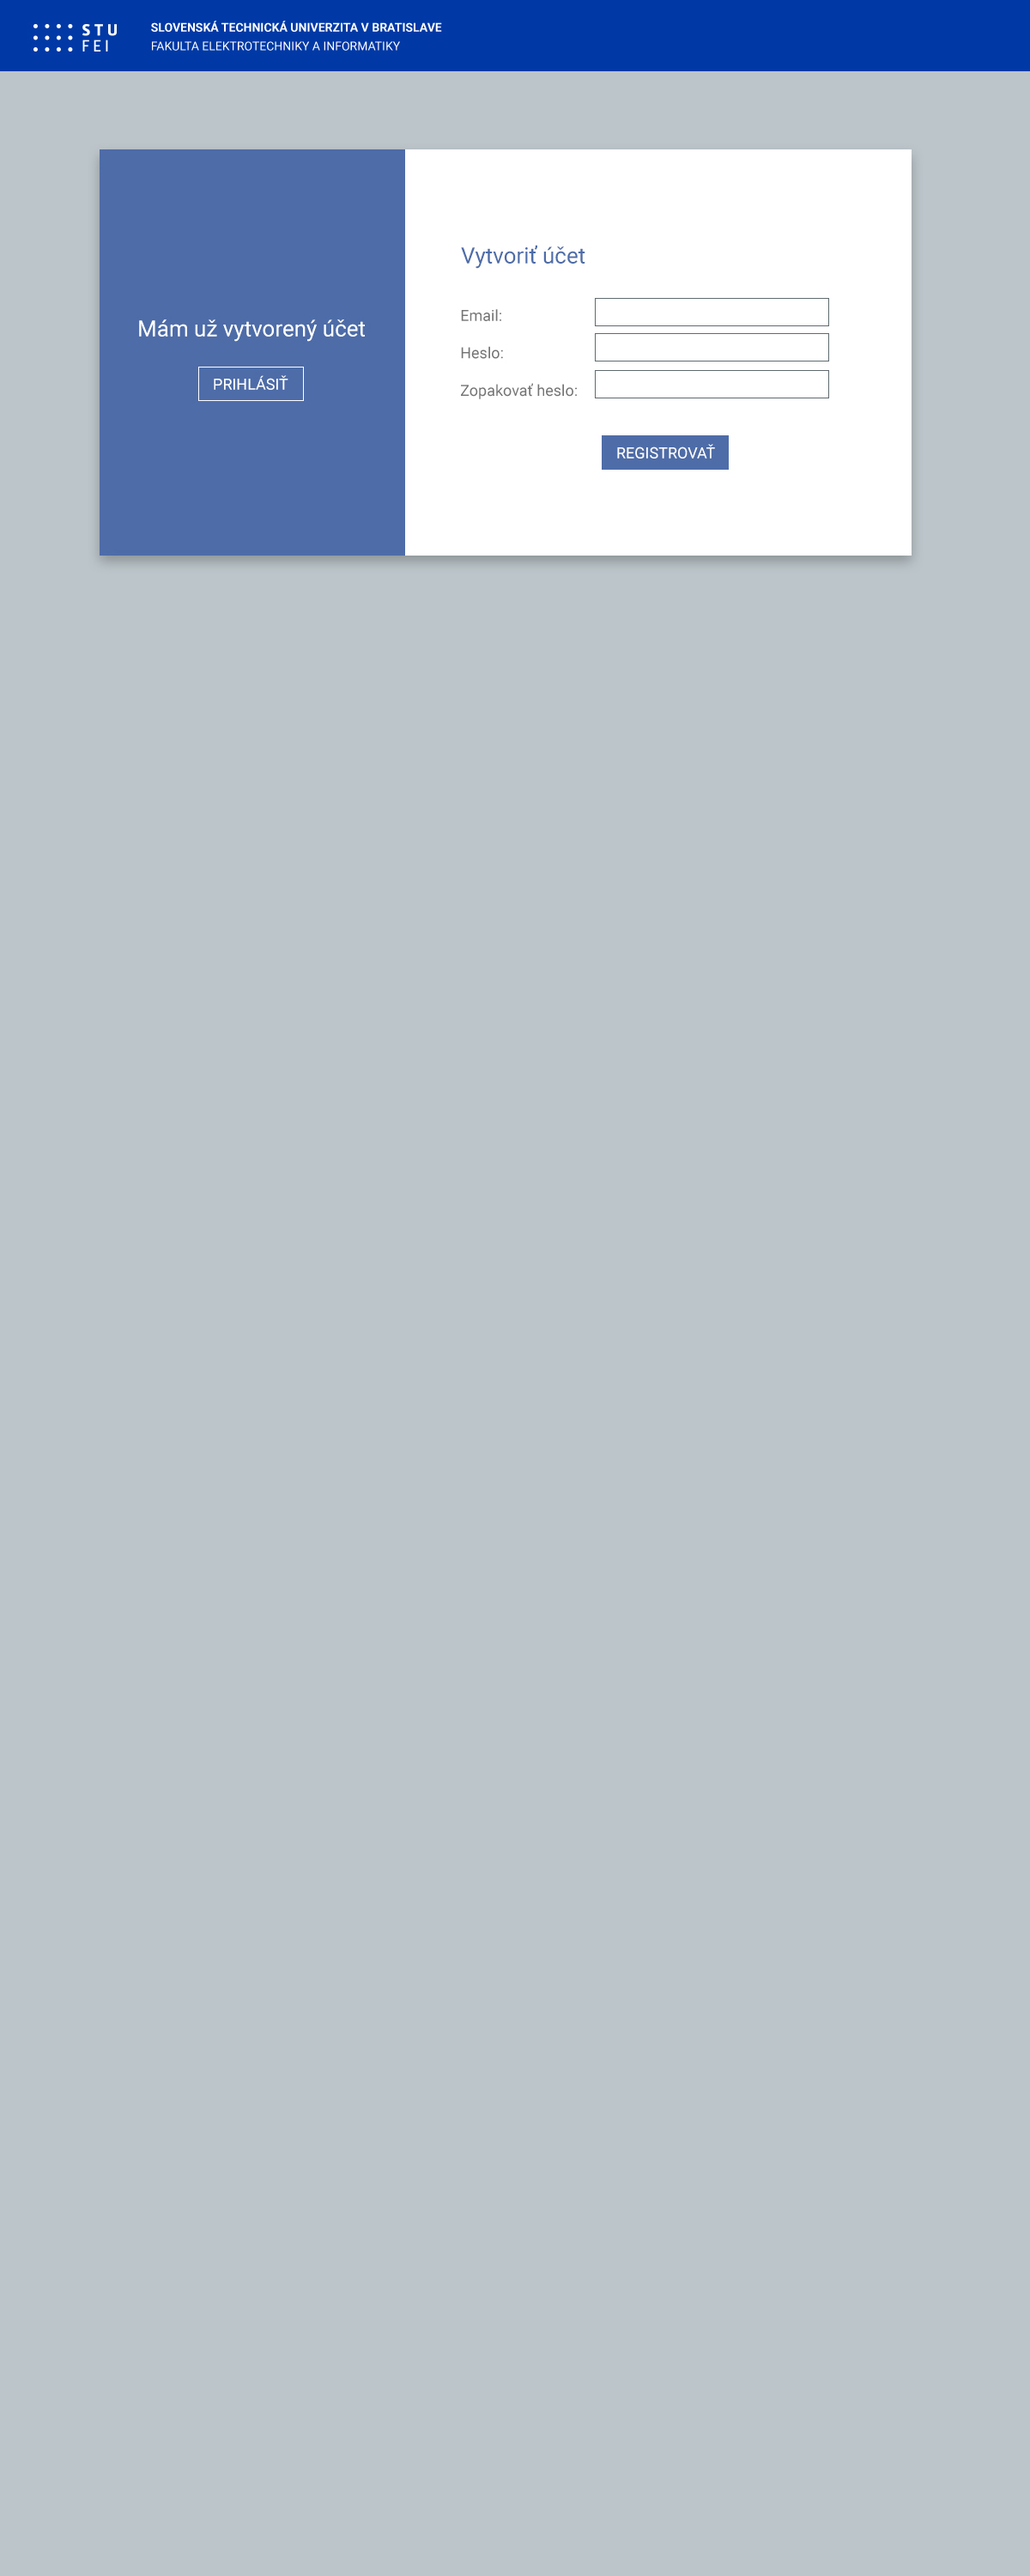
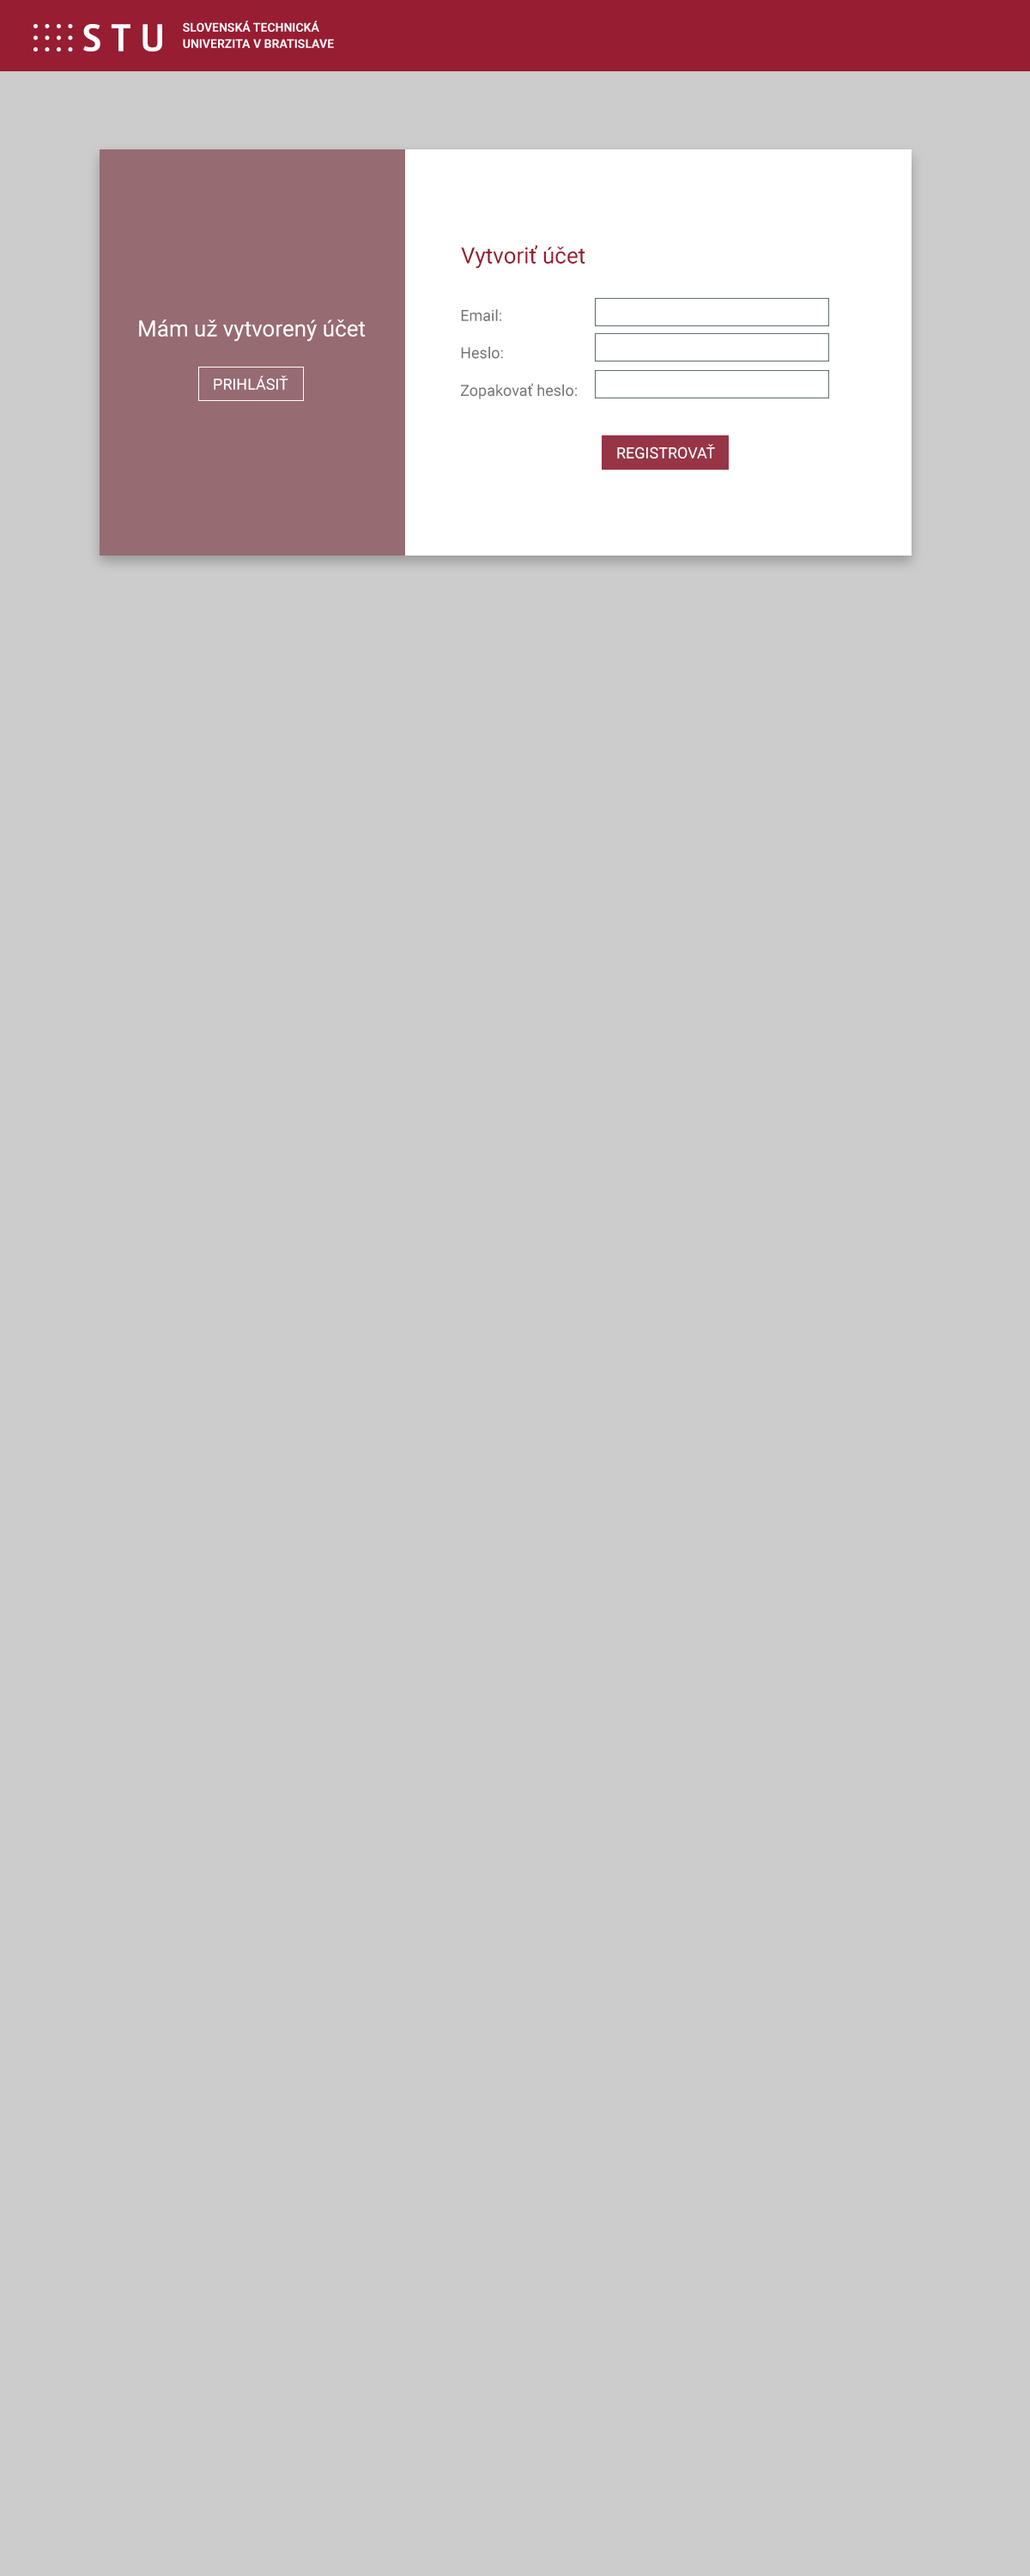
Sum

Changed region(s): [[0.0, 0.0, 1.0, 0.217], [0.5858, 0.155, 0.7092, 0.186]]

diff --git a/docs/fei/08.18/prihlaska/04.html b/docs/fei/08.18/prihlaska/04.html
@@ -9,11 +9,12 @@
 body {
 	margin-left:0;
 	margin-top:0;
-	background-color:#bcc5ca;
-
+	background-color:#888888;
+	background-image: url("01.gif");
+    background-repeat: repeat-x;
 }
 </style>
 <body> 
-<div align="center"> <img src="FEI_confirm_email.jpg" border="0"></div>
+<div align="center"> <a href="index.html"><img src="04.jpg" border="0"></a></div>
 </body>
 </html>
